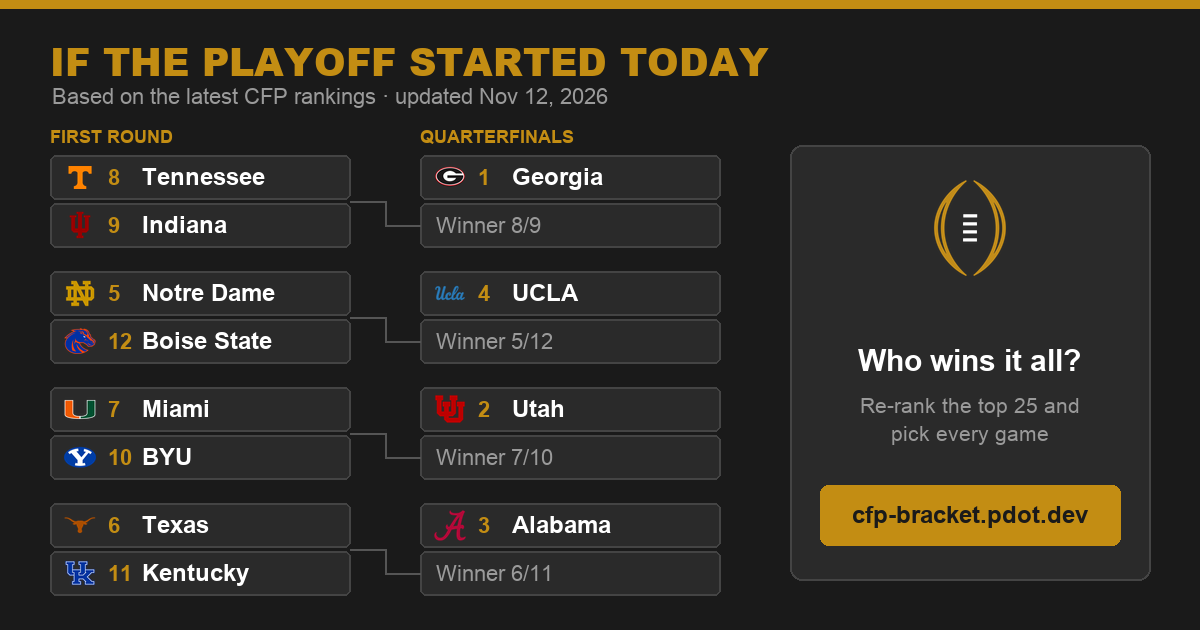
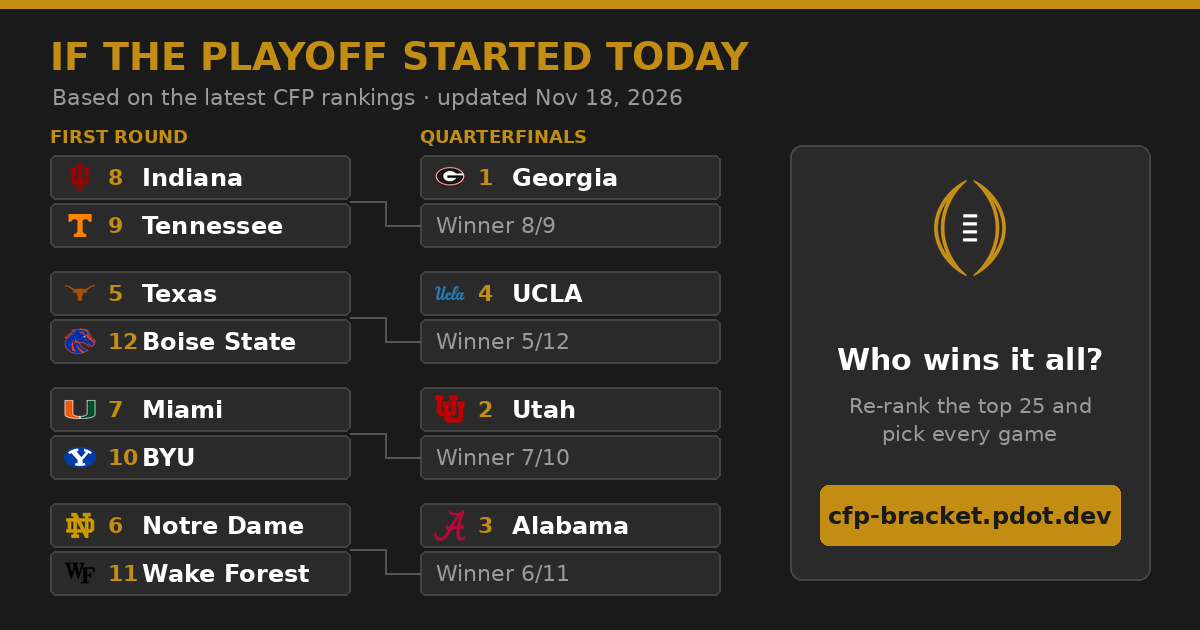
Update weekly team rankings [automated]

diff --git a/index.html b/index.html
@@ -16,14 +16,14 @@
     <meta property="og:url" content="https://cfp-bracket.pdot.dev/">
     <meta property="og:title" content="CFP Bracket Predictor">
     <meta property="og:description" content="Rank the top 25 and build your 12-team College Football Playoff bracket. Updated weekly with the latest CFP rankings.">
-    <meta property="og:image" content="https://cfp-bracket.pdot.dev/og-image.png?v=20261112">
+    <meta property="og:image" content="https://cfp-bracket.pdot.dev/og-image.png?v=20261118">
     <meta property="og:image:width" content="1200">
     <meta property="og:image:height" content="630">
     <meta property="og:image:alt" content="CFP Bracket Predictor: build your 12-team playoff bracket">
     <meta name="twitter:card" content="summary_large_image">
     <meta name="twitter:title" content="CFP Bracket Predictor">
     <meta name="twitter:description" content="Rank the top 25 and build your 12-team College Football Playoff bracket. Updated weekly.">
-    <meta name="twitter:image" content="https://cfp-bracket.pdot.dev/og-image.png?v=20261112">
+    <meta name="twitter:image" content="https://cfp-bracket.pdot.dev/og-image.png?v=20261118">
     <meta name="twitter:site" content="@BuildYourCFP">
 
     <link rel="stylesheet" href="style.css">
